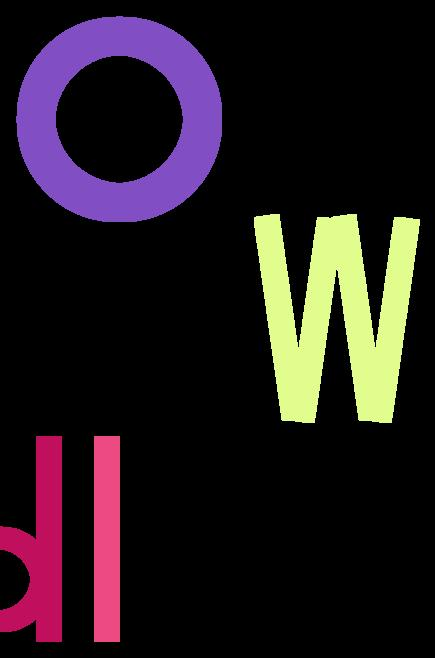
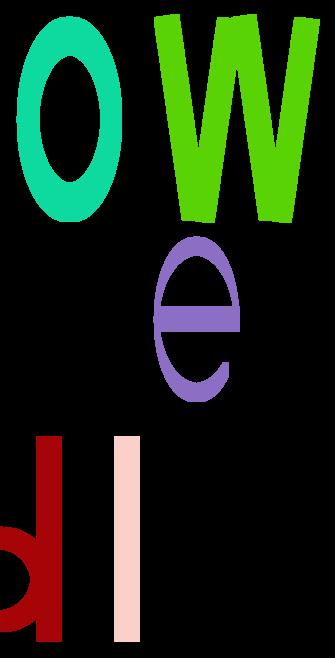
La letttre e est fait

diff --git a/labo/src/tp1/LetterFactory.java b/labo/src/tp1/LetterFactory.java
@@ -26,20 +26,31 @@ public final class LetterFactory {
 
     // TODO
     public static BaseShape create_e() {
-        return null;
+        Double degrees90 = Math.toRadians(90);
+        Double hSpacing = stripeThickness * 4;
+        Double wSpacing =stripeThickness * 2;
+        BaseShape mainStripe = new Ellipse(wSpacing,hSpacing);
+        BaseShape centreStripe= new Ellipse(wSpacing,hSpacing*5/6);
+        BaseShape bare = new Rectangle(stripeThickness,hSpacing);
+        BaseShape morsoSurper= bare.translate(new Point2d(30.0,0.0));
+        mainStripe.removeAll(centreStripe.getCoords());
+        mainStripe.removeAll(morsoSurper.getCoords());
+        BaseShape Baremilieu =bare.rotate(degrees90).translate(new Point2d(wSpacing,-10.0));
+        mainStripe.add(Baremilieu);
+        return mainStripe;
     }
 
     // TODO
     public static BaseShape create_l()
     {
         BaseShape mainStripe = new Rectangle(stripeThickness, maxHeight);
-        return mainStripe;
+        return mainStripe.translate(new Point2d(10.0,0.0));
     }
 
     // TODO
     public static BaseShape create_o() {
-        BaseShape mainStripe = new Circle(halfMaxHeight);
-        BaseShape centreStripe= new Circle(halfMaxHeight*2/3);
+        BaseShape mainStripe = new Ellipse(halfMaxHeight/2,halfMaxHeight);
+        BaseShape centreStripe= new Ellipse(halfMaxHeight/3,halfMaxHeight*2/3);
         mainStripe.removeAll(centreStripe.getCoords());
         return mainStripe;
     }
@@ -56,7 +67,8 @@ public final class LetterFactory {
         leftStripe.add(middleLeftStripe);
         leftStripe.add(middleRightStripe);
         leftStripe.add(rightStripe);
-        return leftStripe;
+        BaseShape a= leftStripe.translate(new Point2d(0.0,-100.0));
+        return a;
     }
 
     // TODO

diff --git a/labo/src/tp1/Main.java b/labo/src/tp1/Main.java
@@ -35,6 +35,7 @@ public class Main {
             letterPlacer.placeNext('W');
             letterPlacer.placeNextln('d');
             letterPlacer.placeNext('l');
+            letterPlacer.placeNext('e');
             File imgFile = letterPlacer.saveImage("w", false);
             Desktop dt = Desktop.getDesktop();
             dt.open(imgFile);
